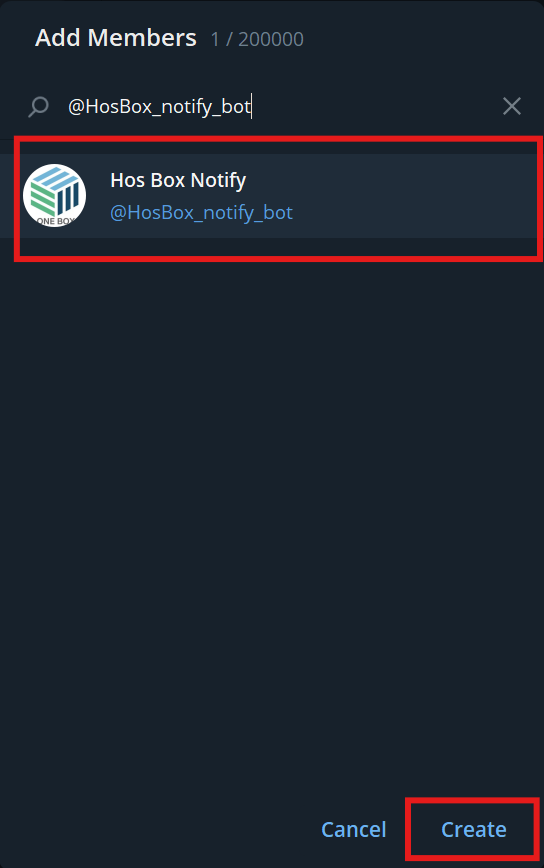
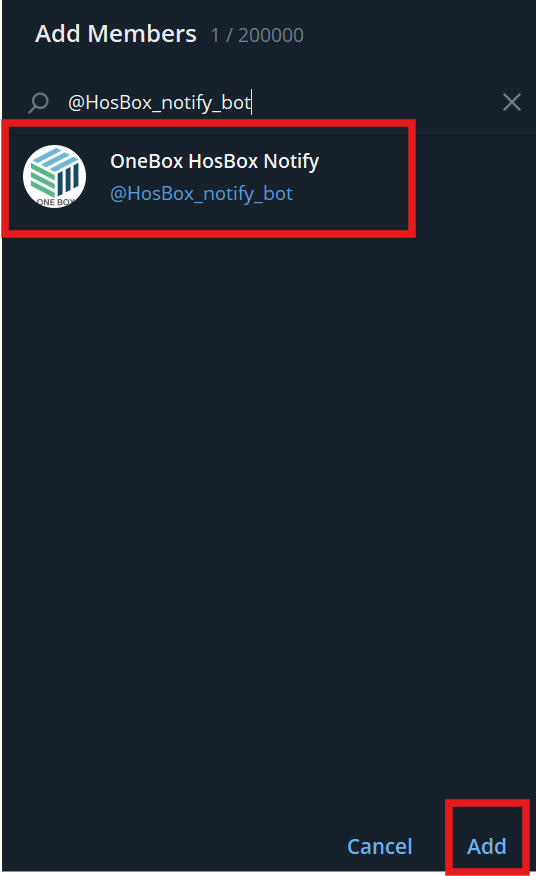
doc: update doc vHosBox1.2.3

Changed region(s): [[0.0, 0.0, 1.0, 1.0], [0.0597, 0.0311, 0.5672, 0.0622]]

diff --git a/check_version/README.MD b/check_version/README.MD
@@ -1,0 +1,52 @@
+# การตรวจสอบเวอร์ชัน OneBox CLI
+
+## สำหรับ Windows
+###  ไปที่โฟลเดอร์ที่เก็บโปรแกรม แล้วเปิด command prompt ด้วยคำสั่ง cmd
+
+<img src="images/cmd-command.png" alt="cmd-command" width="700">
+
+### เปิด command prompt และตรวจสอบเวอร์ชันโปรแกรม
+
+```bash
+onebox version
+```
+โปรแกรมต้อง version เท่ากับหรือมากกว่า 1.2.2
+
+<img src="images/onebox_version.png" alt="onebox_version" width="500">
+
+## สำหรับ Linux
+### เข้าเครื่องที่มีการติดตั้งโปรแกรมและตรวจสอบเวอร์ชัน
+
+```bash
+onebox version
+```
+โปรแกรมต้อง version เท่ากับหรือมากกว่า 1.2.2
+
+<img src="images/cmd-linux.png" alt="cmd-linux" width="500">
+
+<br>
+
+## สำหรับผู้ใช้งานที่ใช้โปรแกรมเวอร์ชัน 1.2.2 ขึ้นไป
+
+ดาวน์โหลดไฟล์ OneBox แล้ววางทับไฟล์โปรแกรมเดิมได้ทันที
+
+สำหรับ Windows
+
+[คลิกเพื่อ download สำหรับ Windows](https://github.com/onecentric-dev/onebox-cli/releases/download/vHosBox1.2.3/onebox.exe)
+
+สำหรับ Linux
+```bash
+sudo wget https://github.com/onecentric-dev/onebox-cli/releases/download/vHosBox1.2.3/onebox -O /usr/local/bin/onebox
+```
+
+ให้สิทธิ์ในการรันไฟล์ OneBox สำหรับ Linux
+```bash
+sudo chmod +x /usr/local/bin/onebox
+```
+
+<br>
+
+## สำหรับผู้ใช้งานที่ใช้โปรแกรมเวอร์ชันต่ำกว่า 1.2.2
+กรุณาติดตั้งโปรแกรมใหม่โดยทำตามขั้นตอนในคู่มือการตั้งค่า OneBox CLI ที่ลิงก์ต่อไปนี้:
+
+[การตั้งค่า OneBox CLI](https://github.com/onecentric-dev/onebox-cli/tree/main/alert_backup)

diff --git a/alert_backup/README.MD b/alert_backup/README.MD
@@ -1,14 +1,14 @@
-# การตั้งค่า Notify OneBox CLI (เวอร์ชั่น 1.2.2 ขึ้นไป)
+# การตั้งค่า OneBox CLI
 
 ## 1. ดาวน์โหลดไฟล์โปรแกรมเวอร์ชั่นล่าสุด
 
 ดาวน์โหลดไฟล์ OneBox สำหรับ Windows
 
-[คลิกเพื่อ download สำหรับ Windows](https://github.com/onecentric-dev/onebox-cli/releases/latest/download/onebox.exe)
+[คลิกเพื่อ download สำหรับ Windows](https://github.com/onecentric-dev/onebox-cli/releases/download/vHosBox1.2.3/onebox.exe)
 
 ดาวน์โหลดไฟล์ OneBox สำหรับ Linux
 ```bash
-sudo wget https://github.com/onecentric-dev/onebox-cli/releases/latest/download/onebox -O /usr/local/bin/onebox
+sudo wget https://github.com/onecentric-dev/onebox-cli/releases/download/vHosBox1.2.3/onebox -O /usr/local/bin/onebox
 ```
 
 ให้สิทธิ์ในการรันไฟล์ OneBox สำหรับ Linux
@@ -171,7 +171,7 @@ Telegram - กรอก Chat ID ที่ต้องการส่งแจ้
 
 <img src="images/alert/set-telegram-2.png" alt="set-telegram-2" width="400">
 
-เพิ่ม bot Hos Box Notify โดยพิมพ์ `@HosBox_notify_bot` กดที่ชื่อ bot แล้วกด `Create`
+เพิ่ม bot OneBox HosBox Notify โดยพิมพ์ `@HosBox_notify_bot` กดที่ชื่อ bot แล้วกด `Create`
 
 <img src="images/alert/set-telegram-3.png" alt="set-telegram-3" width="400">
 

diff --git a/hosxp/README.MD b/hosxp/README.MD
@@ -4,11 +4,11 @@
 
 ### onebox.exe ไฟล์โปรแกรม
 
-[คลิกเพื่อ download onebox.exe](https://github.com/onecentric-dev/onebox-cli/releases/latest/download/onebox.exe)
+[คลิกเพื่อ download onebox.exe](https://github.com/onecentric-dev/onebox-cli/releases/download/vHosBox1.2.3/onebox.exe)
 
 
 ### onebox-backup.bat สำหรับเรียกใช้ใน Windows Task Scheduler
-[คลิกเพื่อ download onebox-backup.bat](https://github.com/onecentric-dev/onebox-cli/releases/latest/download/onebox-backup.bat)
+[คลิกเพื่อ download onebox-backup.bat](https://github.com/onecentric-dev/onebox-cli/releases/download/vHosBox1.2.3/onebox-backup.bat)
 
 
 ## 2. เปิดโฟลเดอร์ที่เก็บไฟล์ onebox.exe
